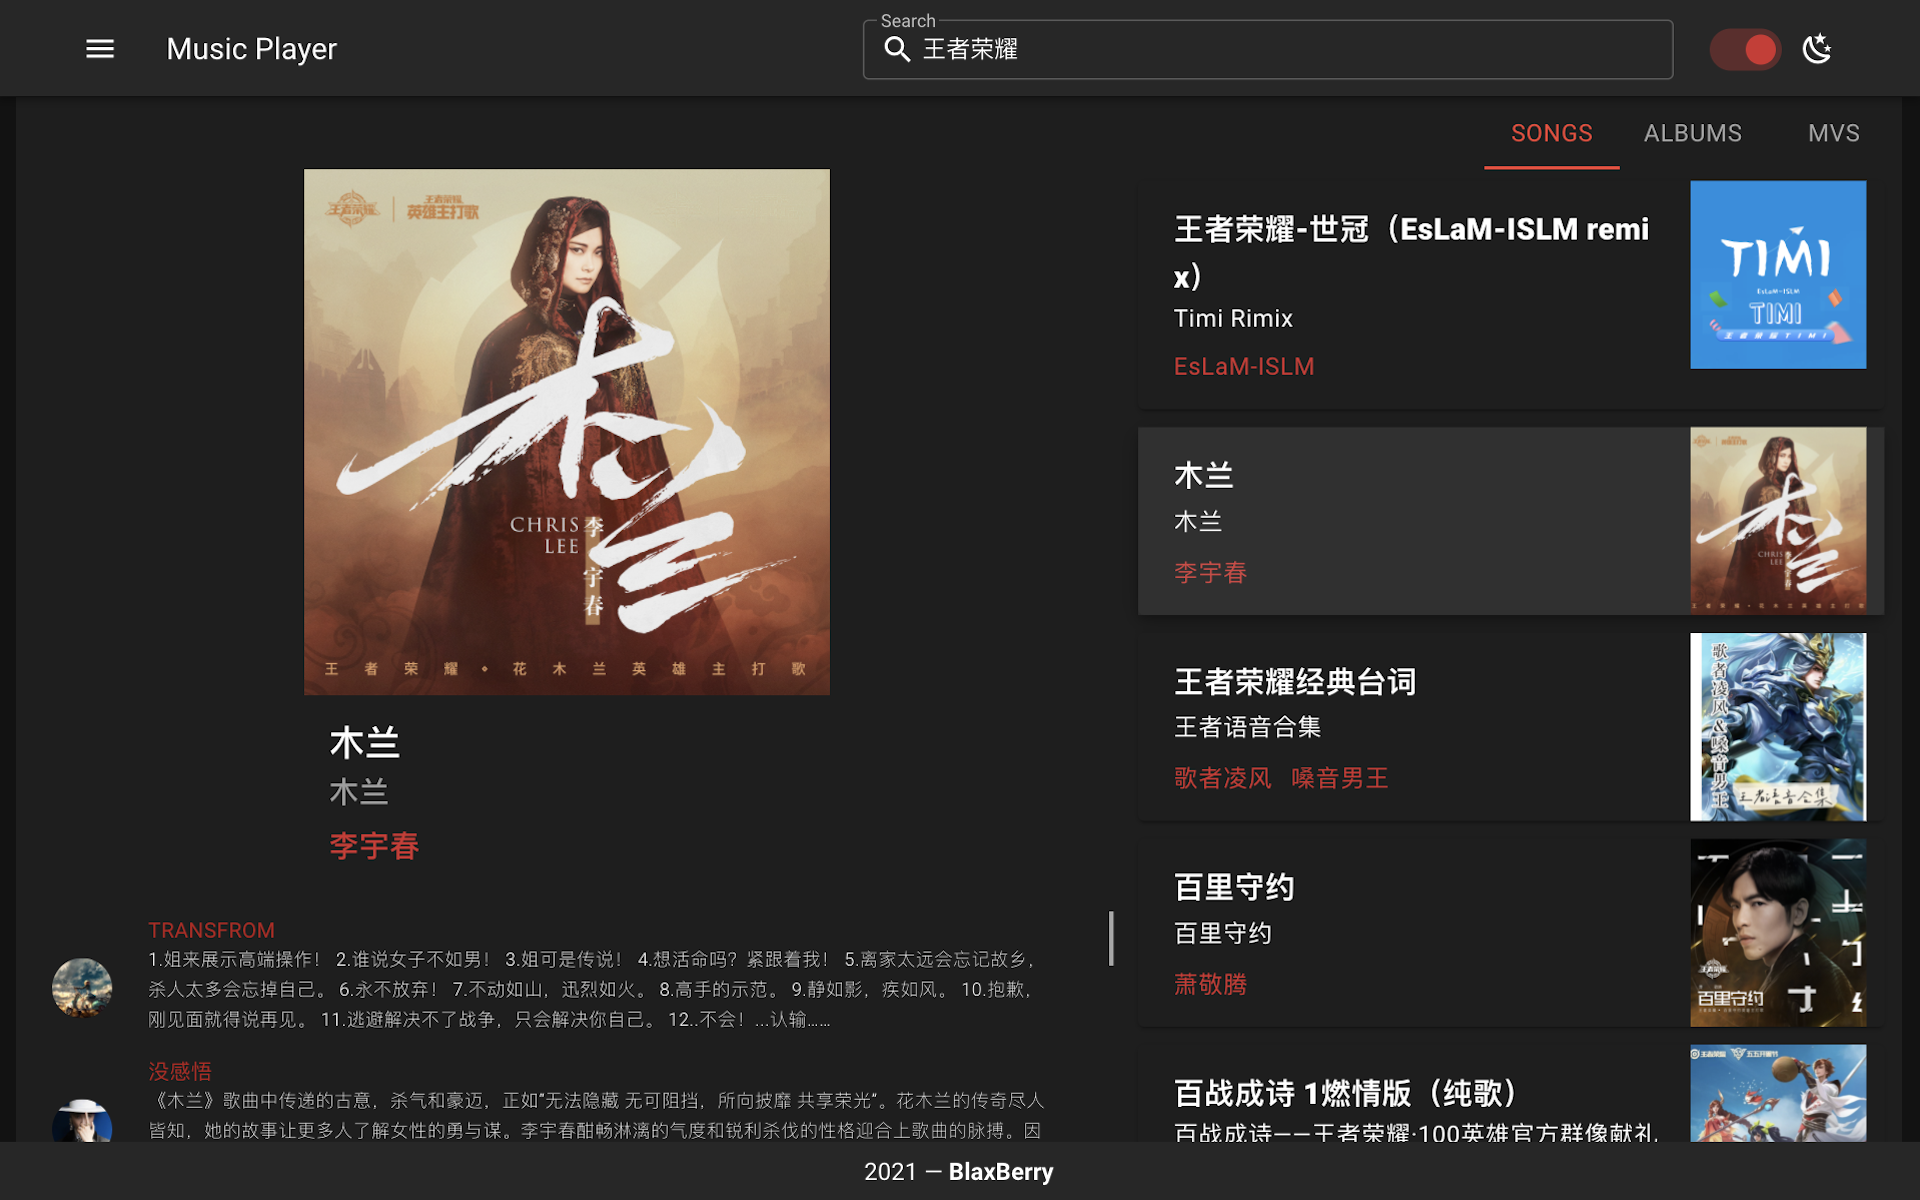
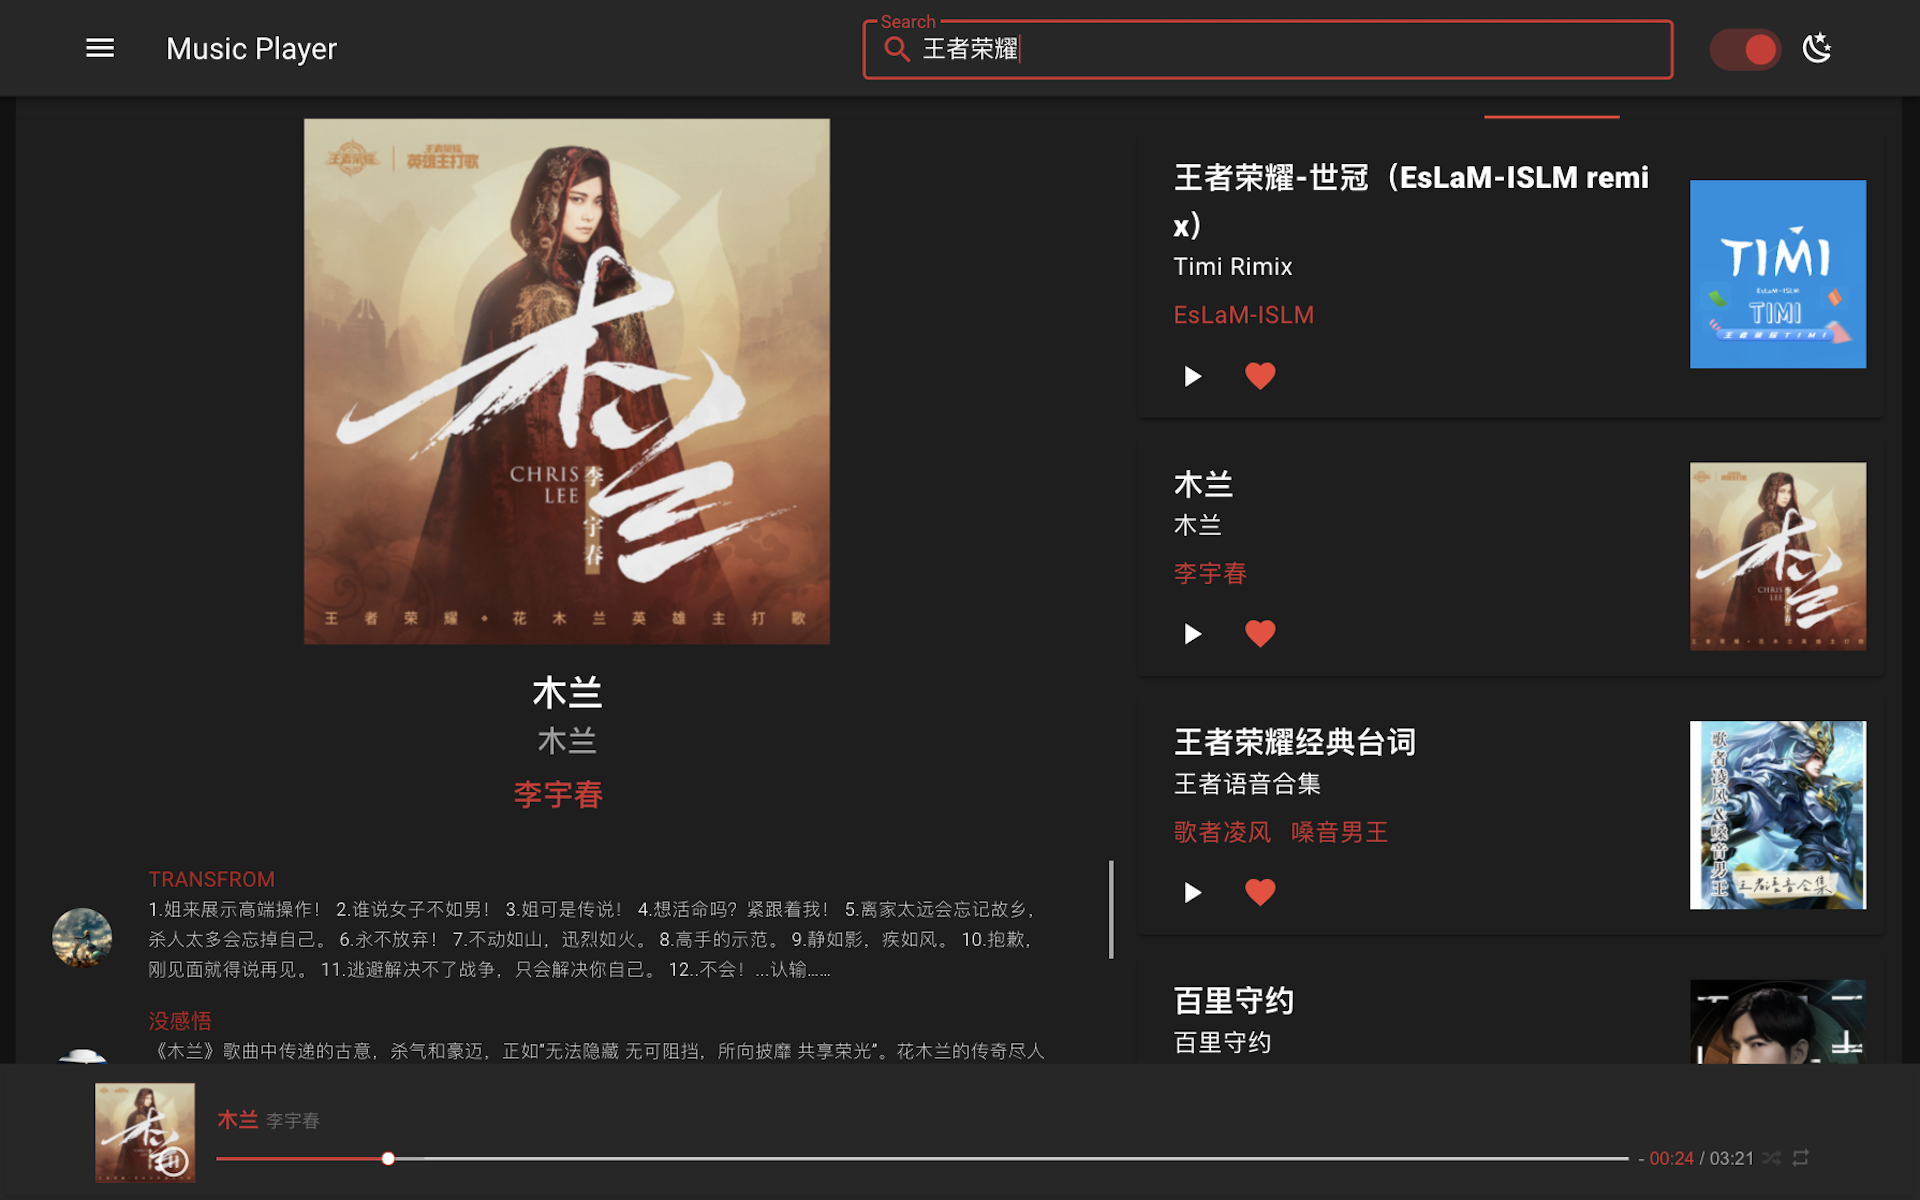
Footer PlayBar

diff --git a/src/views/Search/SearchSongs.vue b/src/views/Search/SearchSongs.vue
@@ -6,11 +6,11 @@
       cols="4"
       lg="7"
     >
-      <div class="px-4 pb-4">
+      <div class="px-4 pb-4 d-flex flex-column align-center">
         <v-img :src="songSelected.pic" max-width="350" />
         <!-- name -->
         <v-card-title
-          class="text-h5 font-weight-black"
+          class="text-h5 font-weight-black justify-center"
           v-text="songSelected.name"
         />
         <!-- album -->
@@ -61,7 +61,7 @@
           rounded
           @click="selectSong(item)"
         >
-          <div class="d-flex flex-no-wrap justify-space-between">
+          <div class="d-flex flex-no-wrap justify-space-between align-center">
             <div class="d-flex flex-column flex-no-wrap justify-space-between">
               <!-- name -->
               <v-card-title
@@ -74,7 +74,7 @@
                 v-text="item.album.name"
               />
               <!-- artists -->
-              <v-card-subtitle class="pt-0">
+              <v-card-subtitle class="py-0">
                 <span
                   v-for="(artist, i) in item.artists"
                   :key="i"
@@ -82,6 +82,15 @@
                   v-text="artist.name"
                 />
               </v-card-subtitle>
+              <!-- tool btns  -->
+              <div>
+                <v-btn fab icon right @click="playSong(item)">
+                  <v-icon>mdi-play</v-icon>
+                </v-btn>
+                <v-btn icon color="red" @click="addLove">
+                  <v-icon>mdi-heart</v-icon>
+                </v-btn>
+              </div>
             </div>
             <v-avatar class="pa-1" size="125" tile>
               <v-img :src="item.pic" />
@@ -117,17 +126,9 @@ export default {
       handler(newVal) {
         // get the default first item of list
         if (newVal) {
-          let name = newVal[0].name;
+          let { name, artists, pic, id, comments } = newVal[0];
           let album = newVal[0].album.name;
-          let artists = newVal[0].artists;
-          let pic = newVal[0].pic;
-          this.songSelected = {
-            name,
-            album,
-            artists,
-            pic,
-            comments: [],
-          };
+          this.songSelected = { id, name, album, artists, pic, comments };
         }
       },
       immediate: true,
@@ -142,21 +143,27 @@ export default {
   methods: {
     async selectSong(item) {
       // 1. get song selected detail
-      let name = item.name;
+      let { name, artists, pic, id } = item;
       let album = item.album.name;
-      let artists = item.artists;
-      let pic = item.pic;
-      this.songSelected = {
-        name,
-        album,
-        artists,
-        pic,
-        comments: [],
-      };
+      this.songSelected = { id, name, album, artists, pic, comments: [] };
       // 2. get song comments
-      let id = item.id;
       let res = await GetSongComments({ id });
       this.songSelected.comments = res.hotComments;
+    },
+
+    playSong(item) {
+      // get song url and save in vuex
+      let { name, artists, pic, id } = item;
+      let params = { name, artists, pic, id };
+      this.$store.dispatch("getSongUrl", params);
+    },
+
+    addLove() {
+      // save localstorage
+      localStorage.setItem(
+        `musicplayer--${this.songSelected.name}`,
+        JSON.stringify(this.songSelected)
+      );
     },
   },
 };
@@ -173,6 +180,6 @@ export default {
 
 .comments-list {
   width: 100%;
-  height: 30vh !important;
+  height: 40vh !important;
 }
 </style>

diff --git a/src/components/Footer/index.vue b/src/components/Footer/index.vue
@@ -1,10 +1,73 @@
 <template>
-  <v-footer padless app>
-    <v-row justify="center" no-gutters>
-      <v-col class="lighten-2 py-2 text-center" cols="12">
-        {{ new Date().getFullYear() }}
-        — <strong>BlaxBerry</strong>
-      </v-col>
-    </v-row>
+  <v-footer
+    padless
+    app
+    class="justify-center"
+    v-if="$store.state.appShowFooterPlayer"
+  >
+    <aplayer
+      :music="music"
+      repeat="repeat-on"
+      autoplay
+      class="pa-2 px-md-6 px-lg-15"
+    />
   </v-footer>
 </template>
+
+<script>
+import { mapState } from "vuex";
+import Aplayer from "vue-aplayer";
+Aplayer.disableVersionBadge = true;
+
+export default {
+  components: { Aplayer },
+
+  data() {
+    return {
+      music: {},
+    };
+  },
+
+  computed: {
+    ...mapState(["songSelected"]),
+  },
+
+  watch: {
+    songSelected: function(newVal) {
+      let { name, artists, pic, url } = newVal;
+      let artistsArr = artists.map((item) => item.name);
+      let artistsStr = "";
+      artistsArr.forEach((item) => (artistsStr += item + " "));
+      this.music = {
+        title: name,
+        artist: artistsStr,
+        src: url,
+        pic,
+        theme: "#D32F2F",
+      };
+    },
+  },
+};
+</script>
+
+<style lang="scss">
+.aplayer {
+  background-color: transparent !important;
+  width: 100% !important;
+  .aplayer-info {
+    .aplayer-title {
+      color: #d32f2f;
+      font-weight: 700;
+    }
+    .aplayer-author {
+      color: #9e9e9e;
+    }
+  }
+  .aplayer-controller {
+    margin-bottom: 0.5rem;
+    .aplayer-ptime {
+      color: #d32f2f;
+    }
+  }
+}
+</style>

diff --git a/src/store/index.js b/src/store/index.js
@@ -3,14 +3,16 @@ import Vuex from 'vuex'
 // apis
 import Search from '../api/Search/search'
 import GetSongPic from '../api/Detail/Song/getSongPic'
+import GetSongUrl from '../api/Detail/Song/getSongURL'
 
 Vue.use(Vuex)
 
 export default new Vuex.Store({
   state: {
     appShowSideNav: false,
+    appShowFooterPlayer: false,
     searchResultList: [],
-
+    songSelected: {},
   },
 
   mutations: {
@@ -20,8 +22,12 @@ export default new Vuex.Store({
     saveSearchResultList(state, params) {
       state.searchResultList = params
     },
-
+    saveSongSelected(state, params) {
+      state.songSelected = params
+      state.appShowFooterPlayer = true
+    }
   },
+
   actions: {
     async getSearchResultList(context, params) {
       let { songs } = await Search(params)
@@ -35,10 +41,13 @@ export default new Vuex.Store({
         item.pic = pic.songs[0].al.picUrl
       })
       context.commit('saveSearchResultList', songs)
-      // // if it's song list, get song list pic
-      // if (params.type == 1) {
-      
-      // }
+    },
+    async getSongUrl(context, params) {
+      let { id } = params
+      let res = await GetSongUrl({ id })
+      let url = res.data[0].url
+      params.url = url
+      context.commit('saveSongSelected', params)
     }
   },
   modules: {

diff --git a/src/views/Search/index.vue b/src/views/Search/index.vue
@@ -29,7 +29,7 @@
     <Loading v-if="!searchResultList.length" />
 
     <!-- pages -->
-    <div class="text-center pt-3" v-if="searchResultList.length">
+    <div class="text-center py-0 mt-2" v-if="searchResultList.length">
       <v-pagination v-model="searchPage" :length="4" circle color="red" />
     </div>
   </div>

diff --git a/src/api/Detail/Song/getSongURL.js b/src/api/Detail/Song/getSongURL.js
@@ -1,9 +1,10 @@
 import instance from '../../request'
 
 /*  id  */
-
-export const GetSongURL = (params) => instance({
+ const GetSongURL = (params) => instance({
     method: 'GET',
     url: '/song/url',
     params
 })
+
+export default GetSongURL

diff --git a/src/main.js b/src/main.js
@@ -6,6 +6,7 @@ import vuetify from './plugins/vuetify'
 
 Vue.config.productionTip = false
 
+
 new Vue({
   router,
   store,

diff --git a/README.md b/README.md
@@ -26,6 +26,8 @@
 
 ![](./public/images/PC-search-01.png)
 ![](./public/images/PC-search-02.png)
+![](./public/images/PC-search-03.png)
+
 
 
 ---
